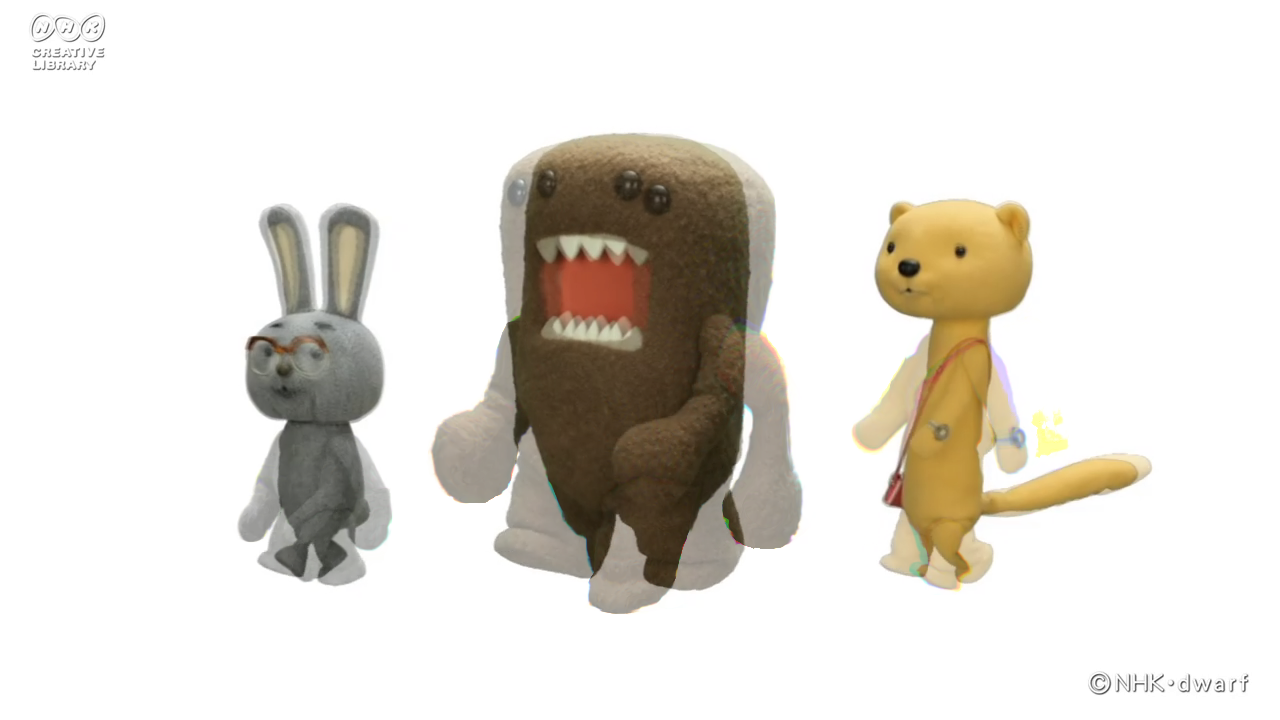
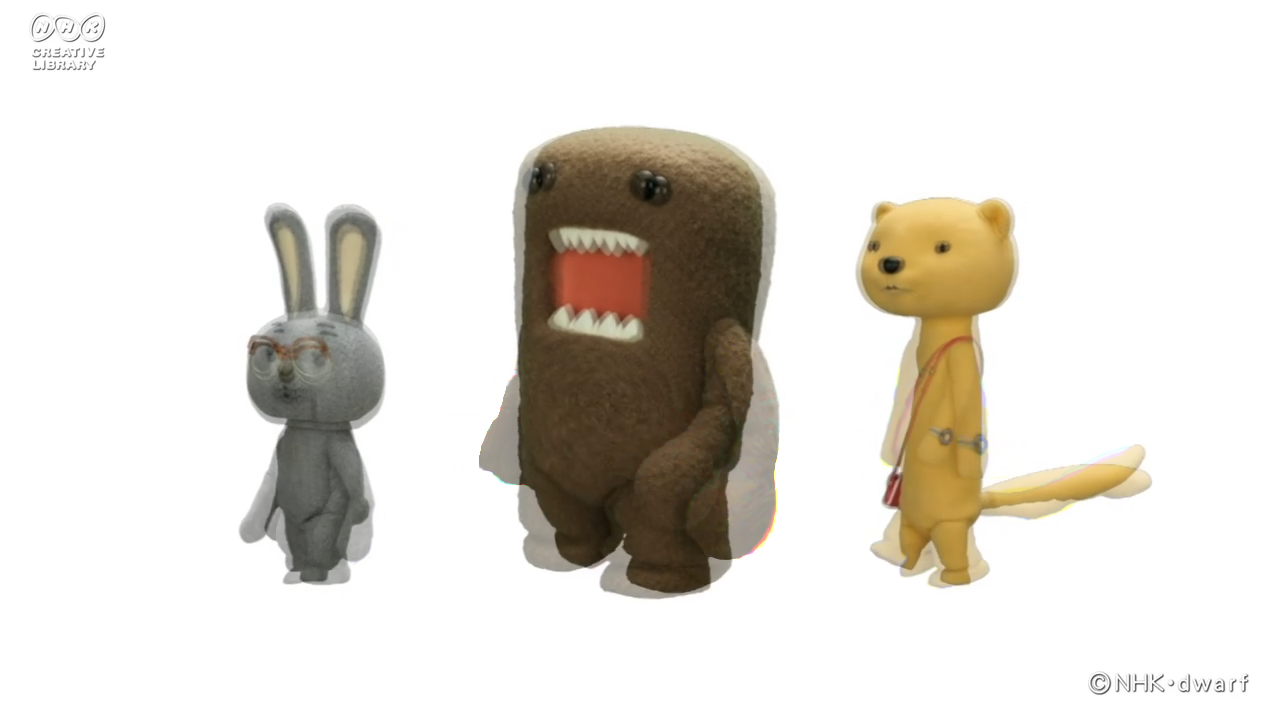
中間画像を出力

diff --git a/frame_interpolation/makeFrame_color.py b/frame_interpolation/makeFrame_color.py
@@ -2,8 +2,8 @@ import cv2
 import numpy as np
 
 # 前フレームと後フレームの読み込み（カラー画像）
-prev_frame = cv2.imread("./output_frames/frame_0000.png")
-next_frame = cv2.imread("./output_frames/frame_0010.png")
+prev_frame = cv2.imread("./output_frames/frame_0005.png")
+next_frame = cv2.imread("./output_frames/frame_0007.png")
 
 # 各チャンネル（B, G, R）に分けて処理
 channels = cv2.split(prev_frame)
